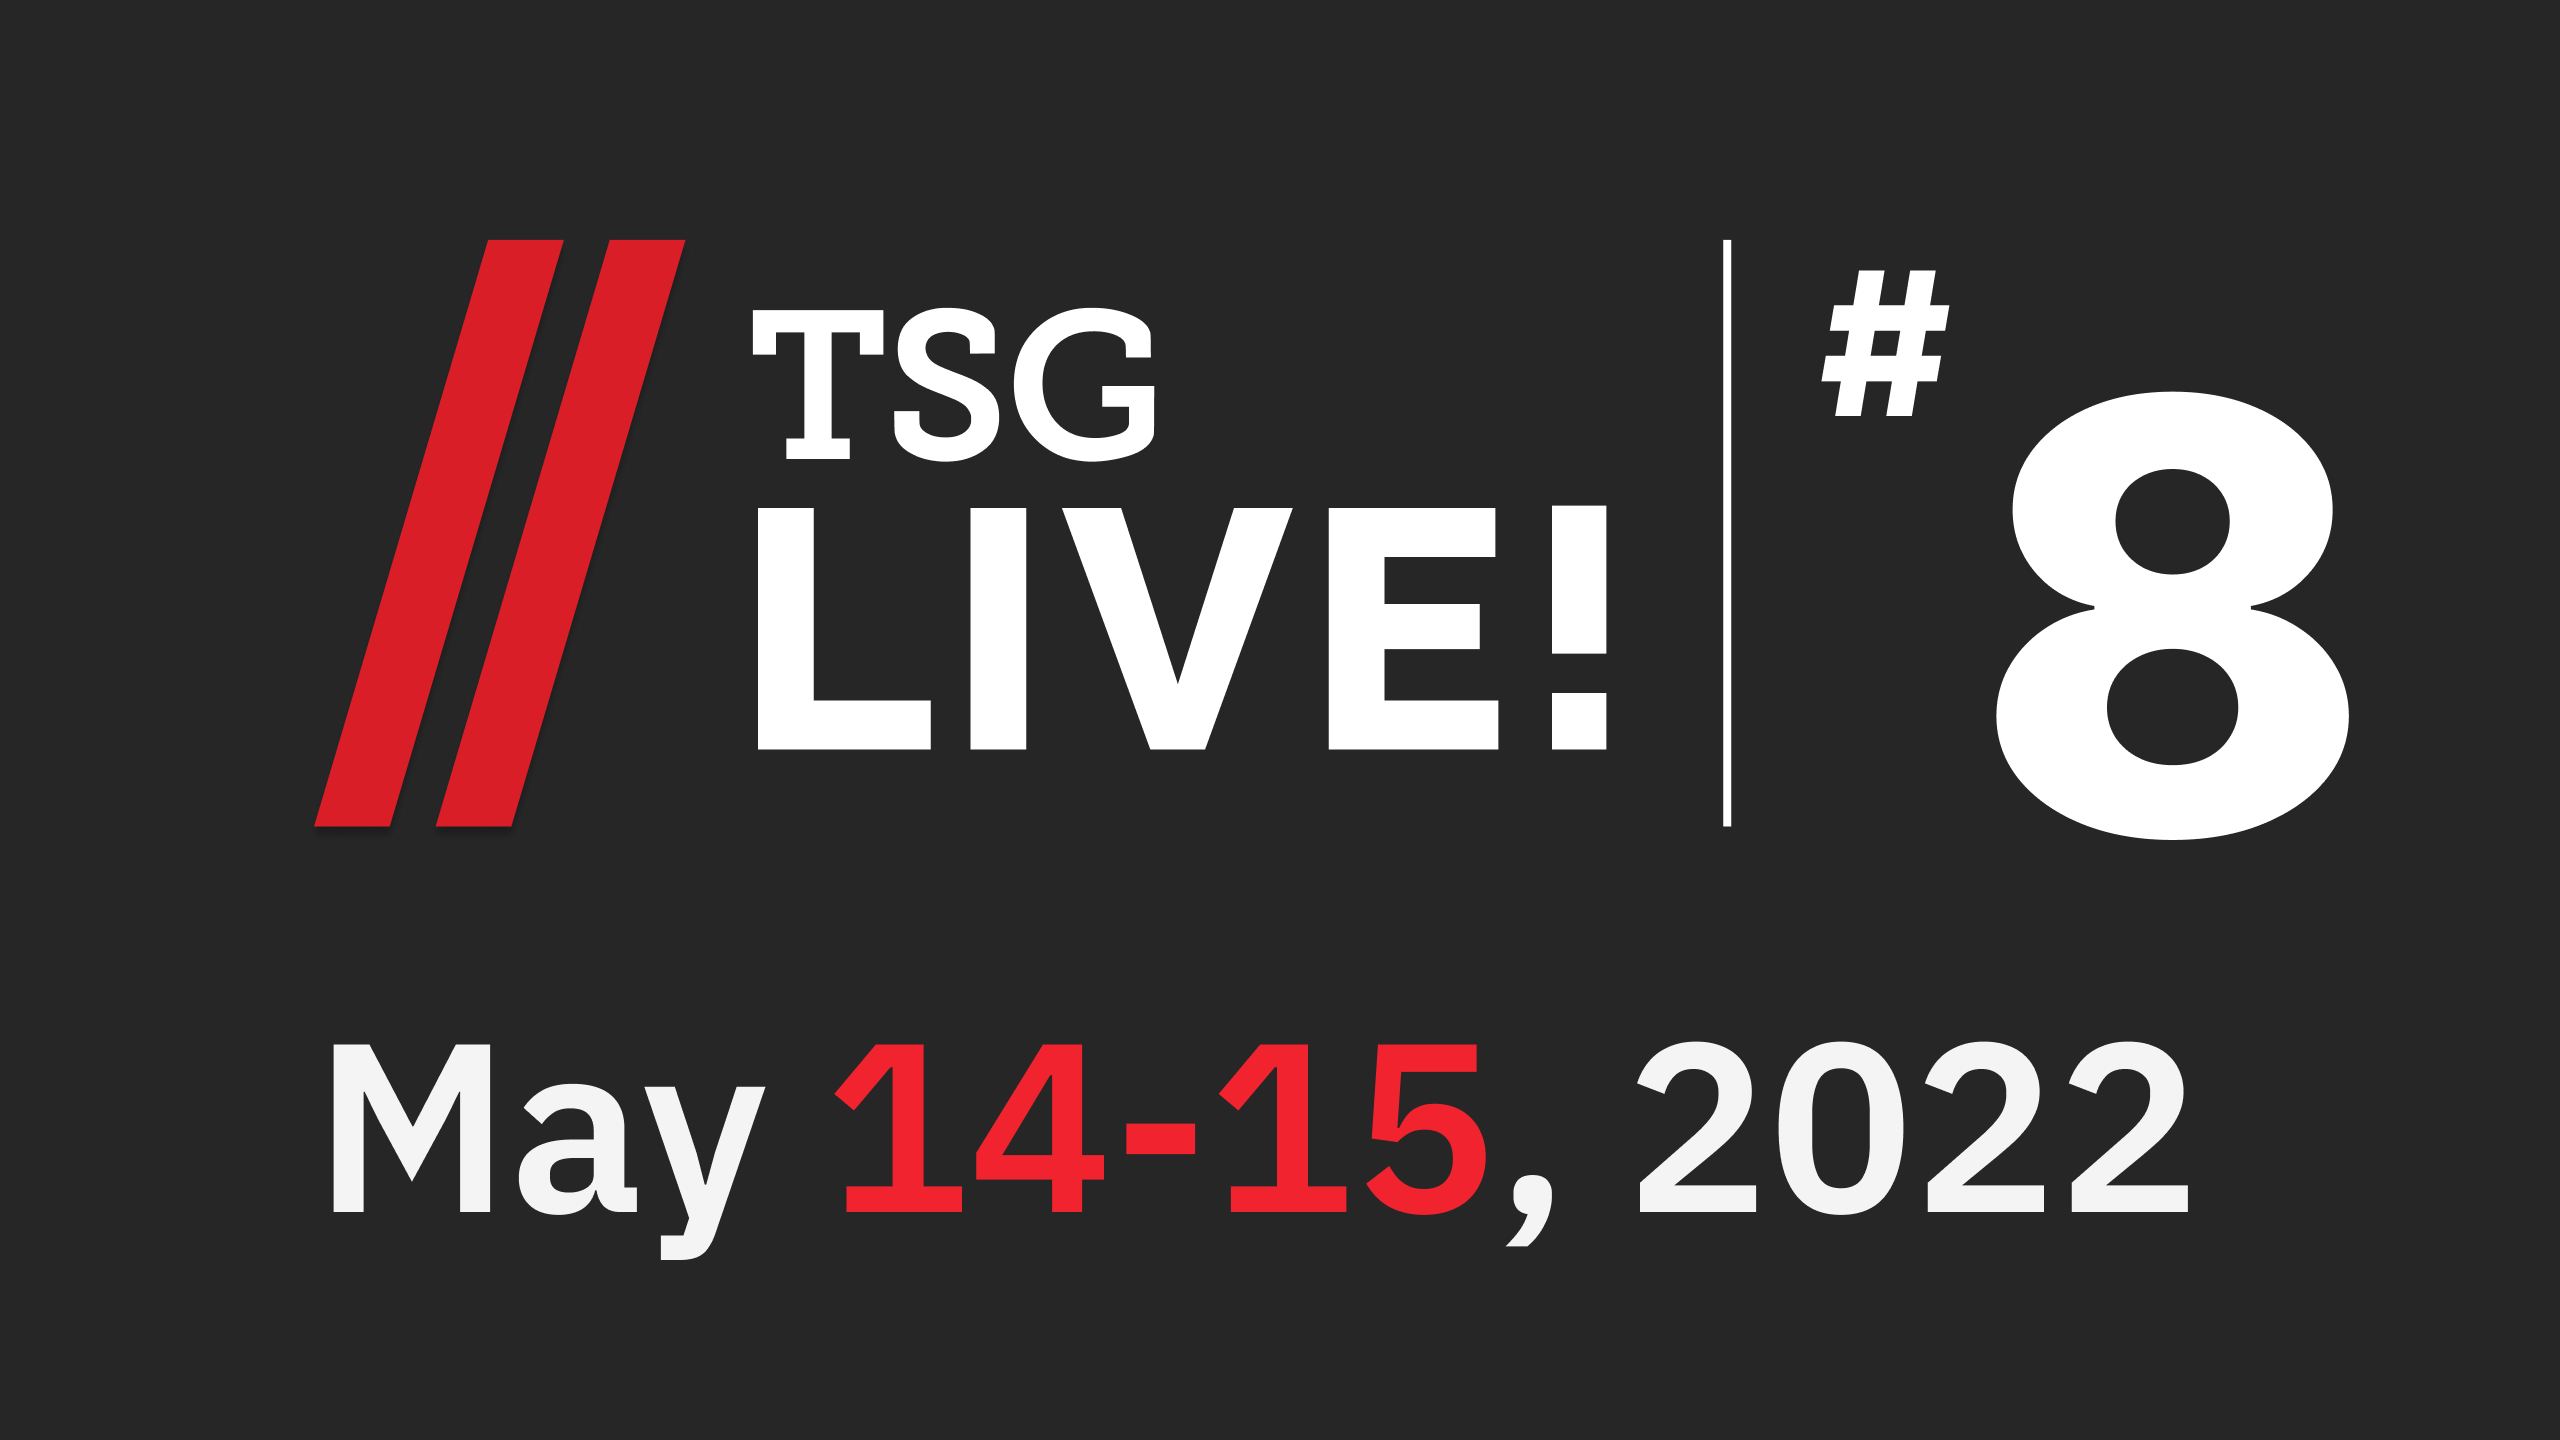
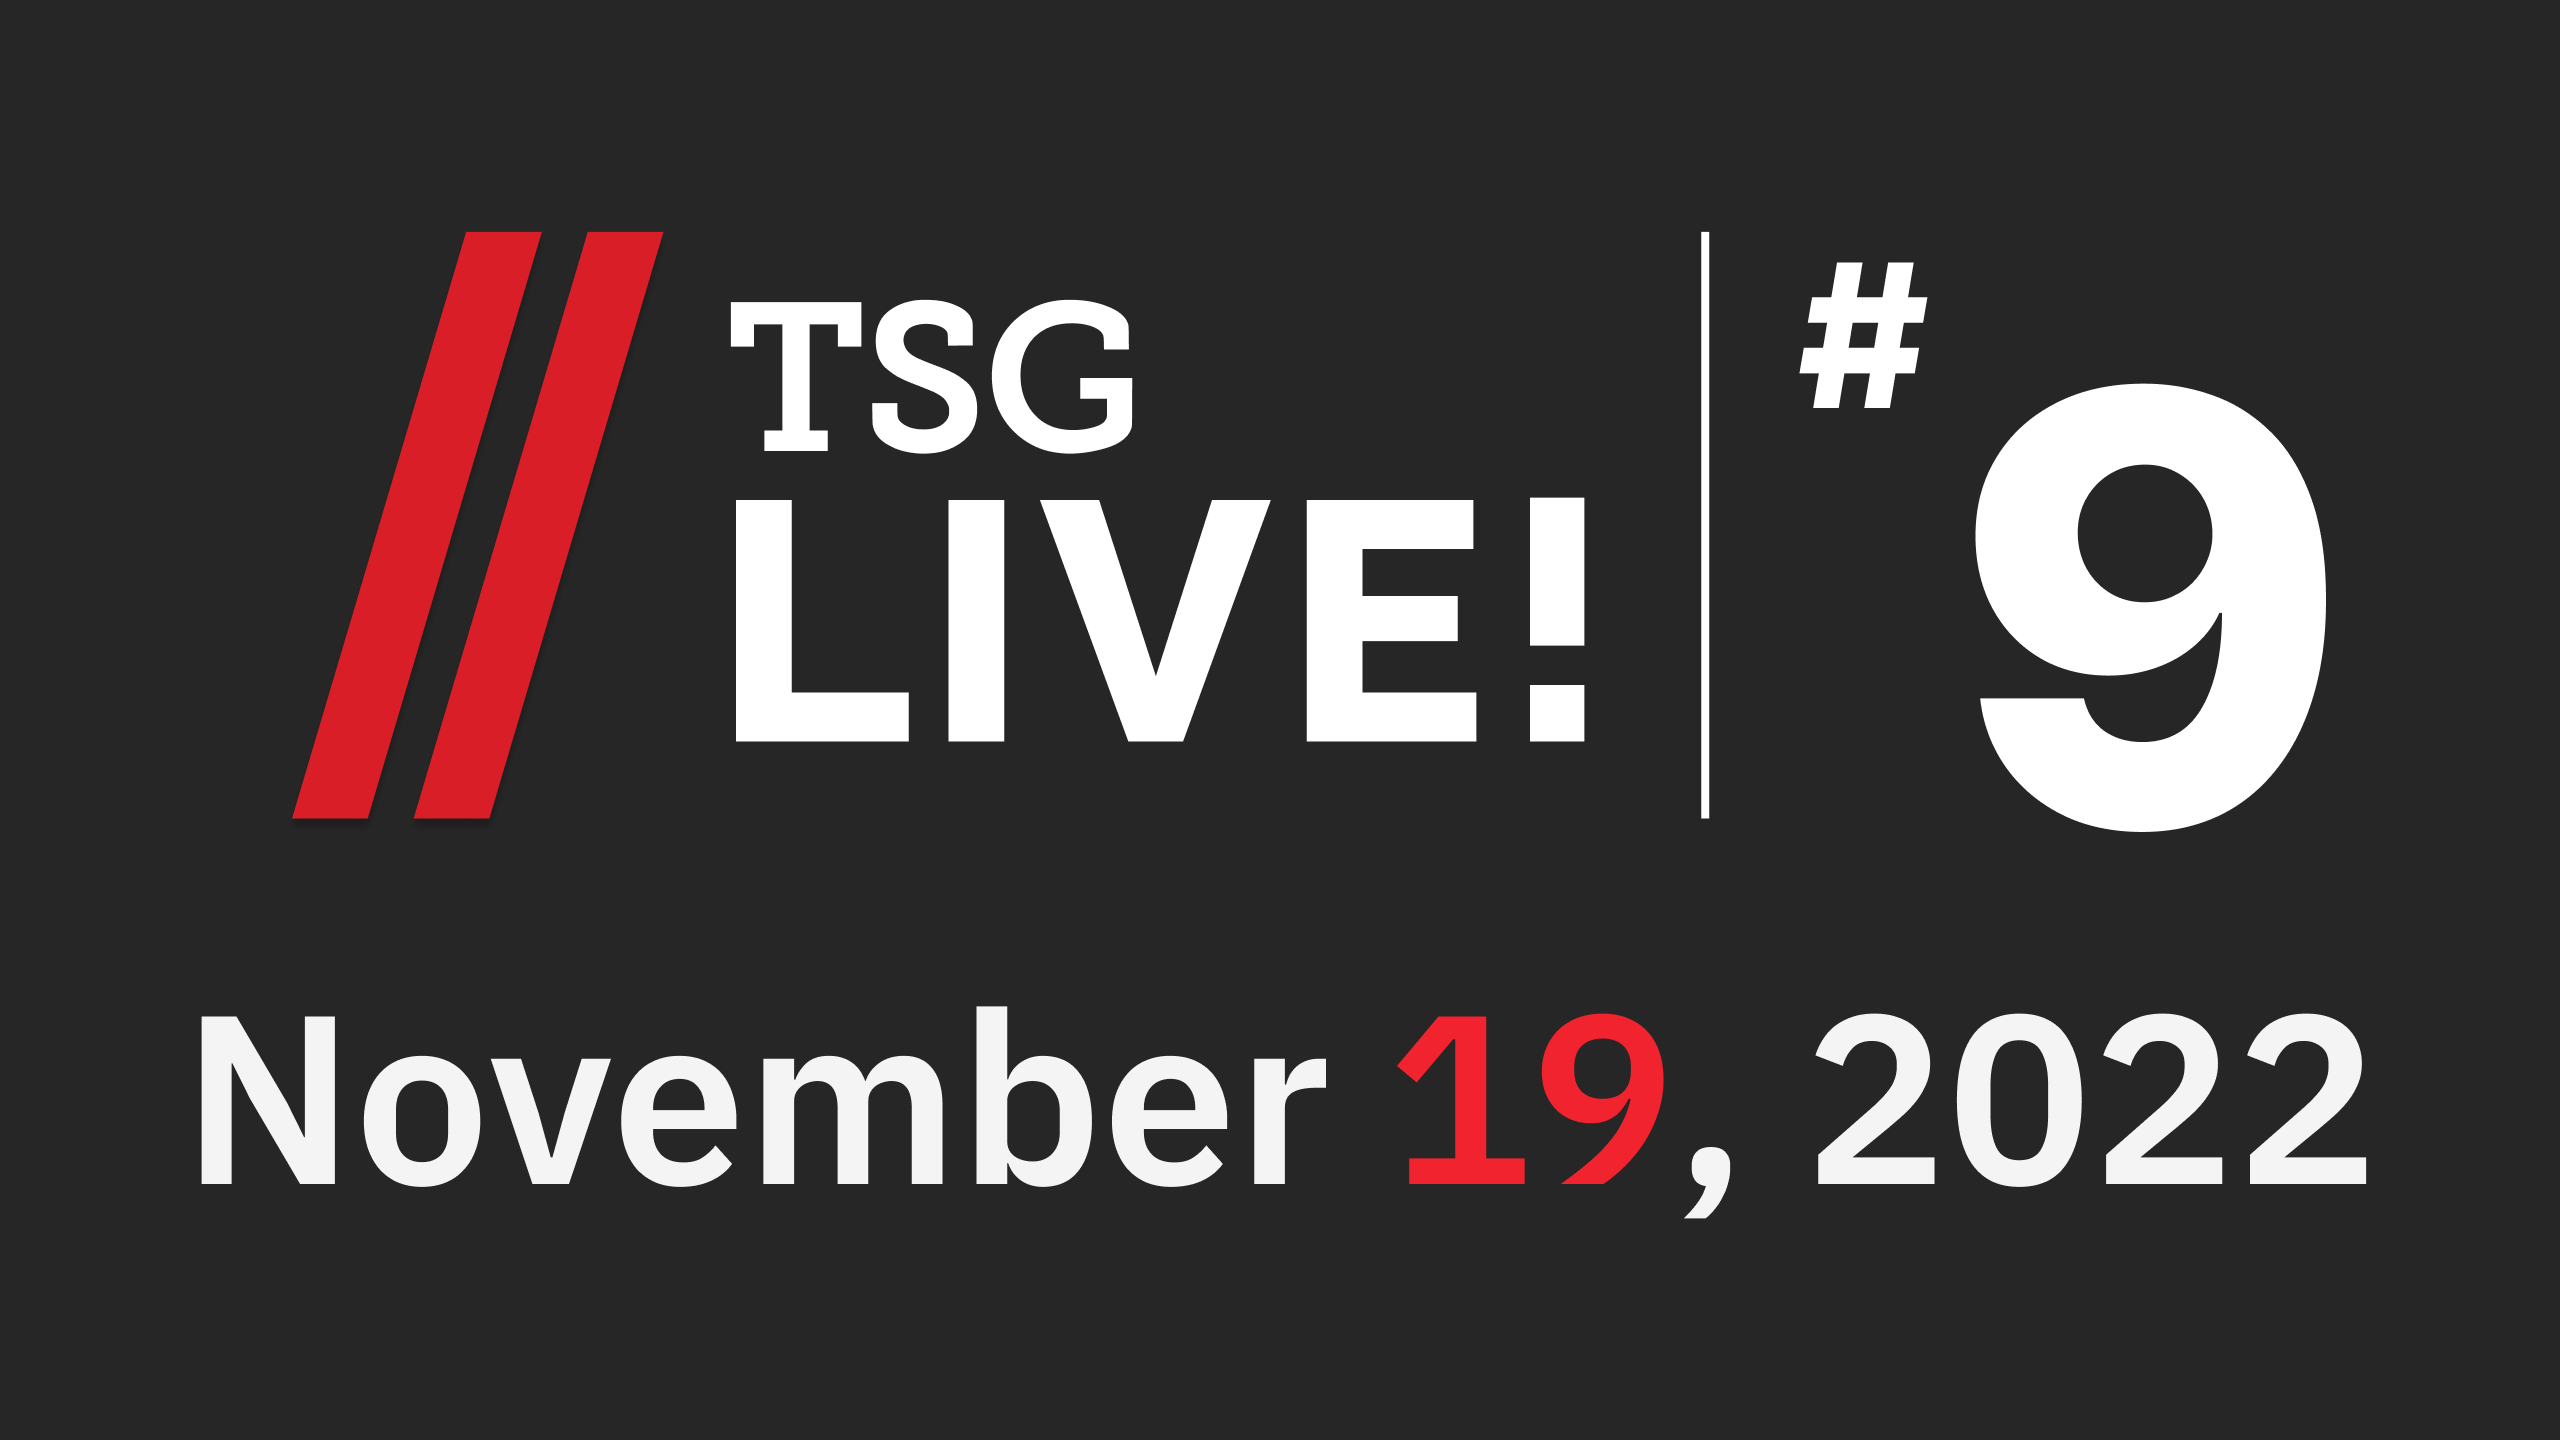
TSG_LIVE!9

diff --git a/index.html b/index.html
@@ -17,7 +17,7 @@
 <div class="container">
   <div class="header">
     <div class="logo">
-      <img src="./twitter_banner.png" alt="TSG LIVE! 8" class="logo-img">
+      <img src="./twitter_banner.png" alt="TSG LIVE! 9" class="logo-img">
     </div>
     <div class="flex-1"></div>
 <!--    <p><a href="https://www.youtube.com/channel/UCzCqJL3-RdhTw9WHYDbPO4Q">YouTube</a></p>-->
@@ -25,22 +25,14 @@
   <h1 class="title">スケジュール</h1>
   <div class="schedule">
     <div class="card">
-      <h2>5/14 (土)</h2>
+      <h2>11/19 (土)</h2>
       <h3>11:00</h3>
       <h1>ライトニングトーク</h1>
-      <h3>12:30</h3>
+      <h3>13:00</h3>
+      <h1><span class="deemphasize">ライブ</span>コードゴルフ</h1>
+      <h3>15:30</h3>
       <h1><span class="deemphasize">ライブ</span>CTF</h1>
-      <h3>15:00</h3>
-      <h1><span class="deemphasize">ライブ</span>コードゴルフ<span class="deemphasize">Day 1</span></h1>
-      <a href="https://www.youtube.com/watch?v=um_iK9lxDrE" class="button">視聴する</a>
-    </div>
-    <div class="card">
-      <h2>5/15 (日)</h2>
-      <h3>12:30</h3>
-      <h1><span class="deemphasize">ライブ</span>競技プログラミング</h1>
-      <h3>15:00</h3>
-      <h1><span class="deemphasize">ライブ</span>コードゴルフ<span class="deemphasize">Day 2</span></h1>
-      <a href="https://www.youtube.com/watch?v=Z0LVadRYqWY" class="button">視聴する</a>
+      <a href="https://www.youtube.com/watch?v=o8JSa2afa8o" class="button">視聴する</a>
     </div>
   </div>
 </div>
